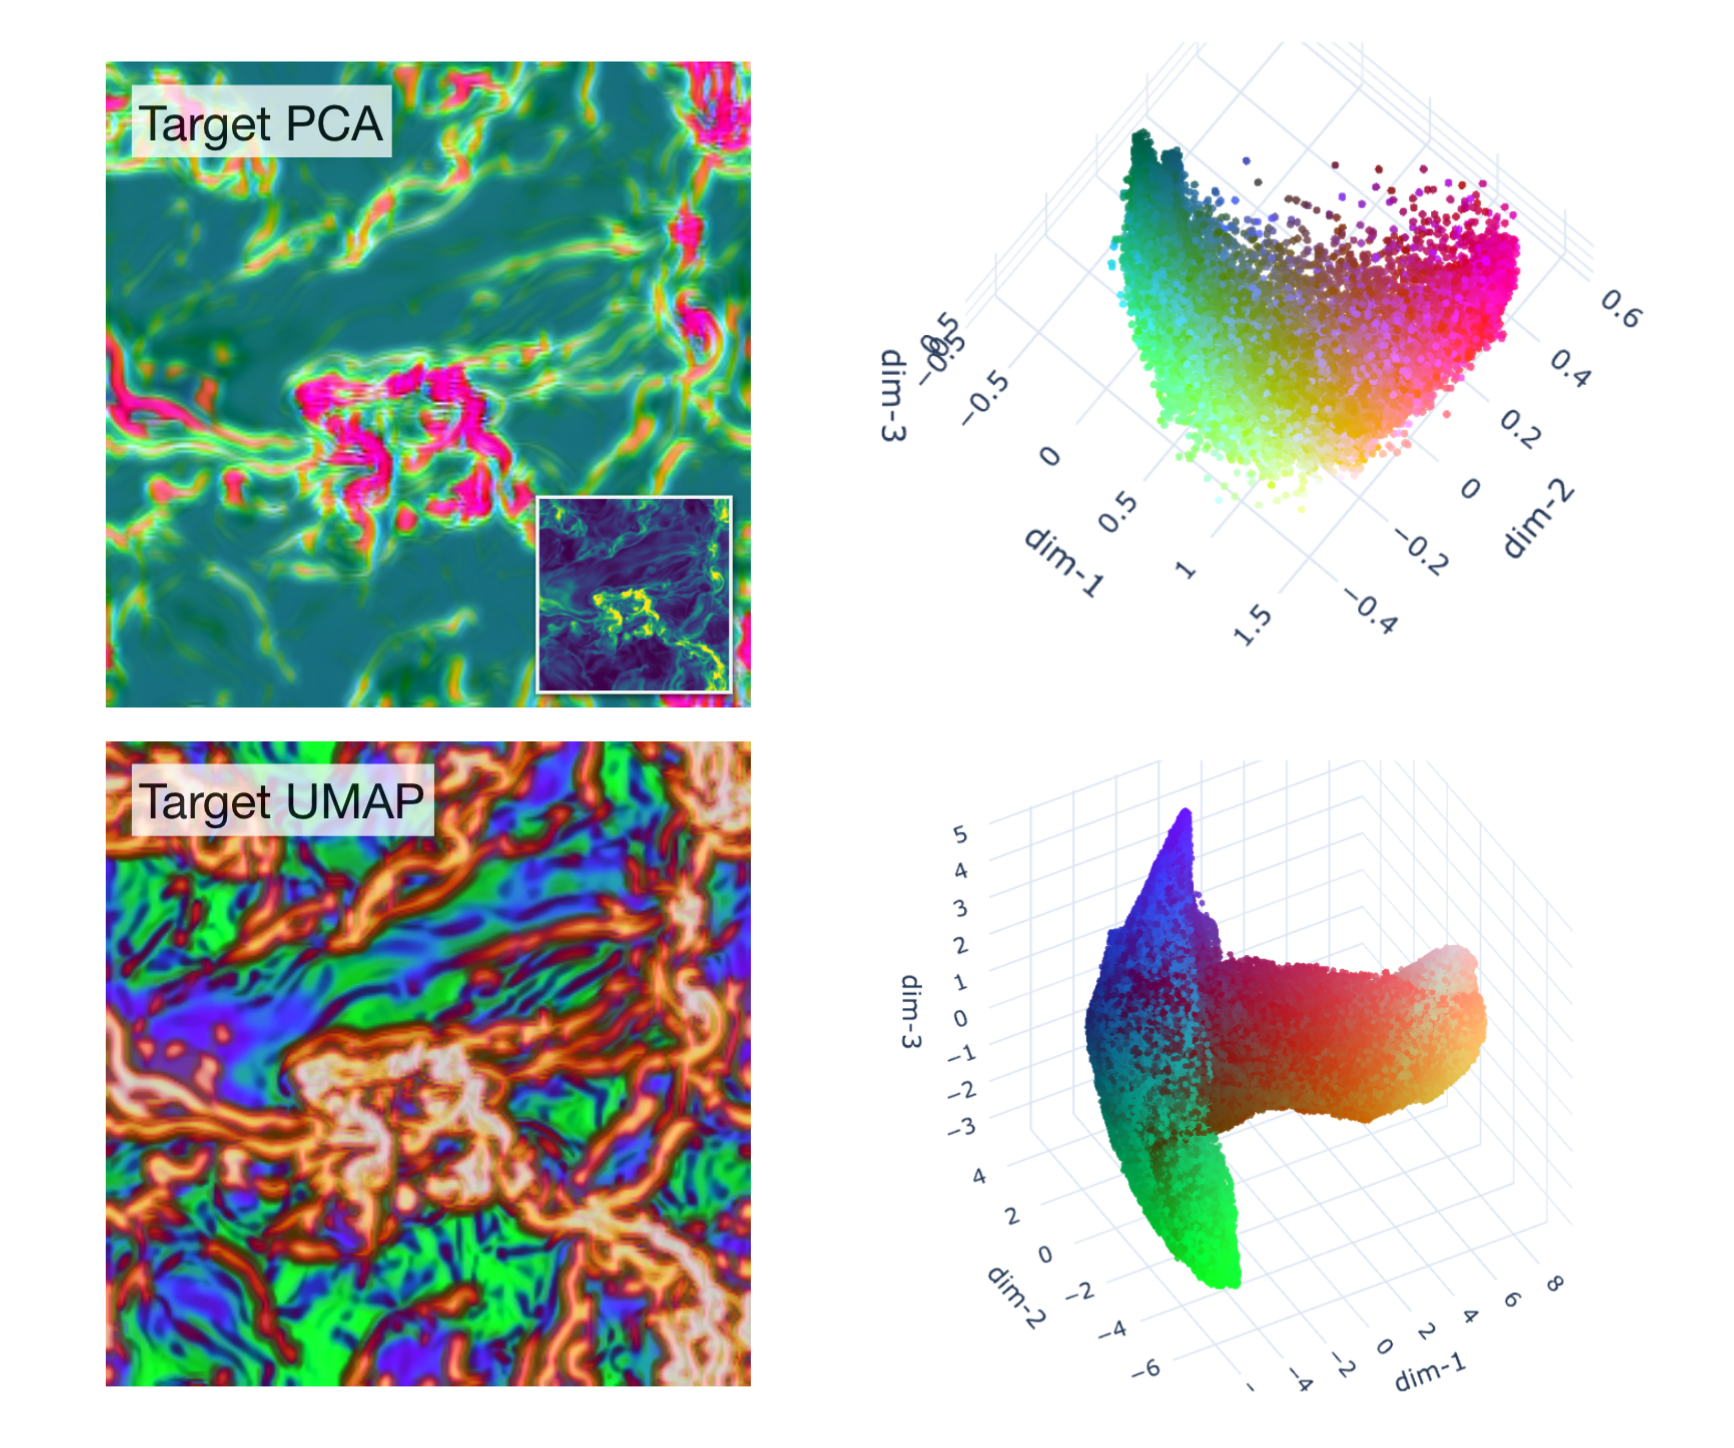
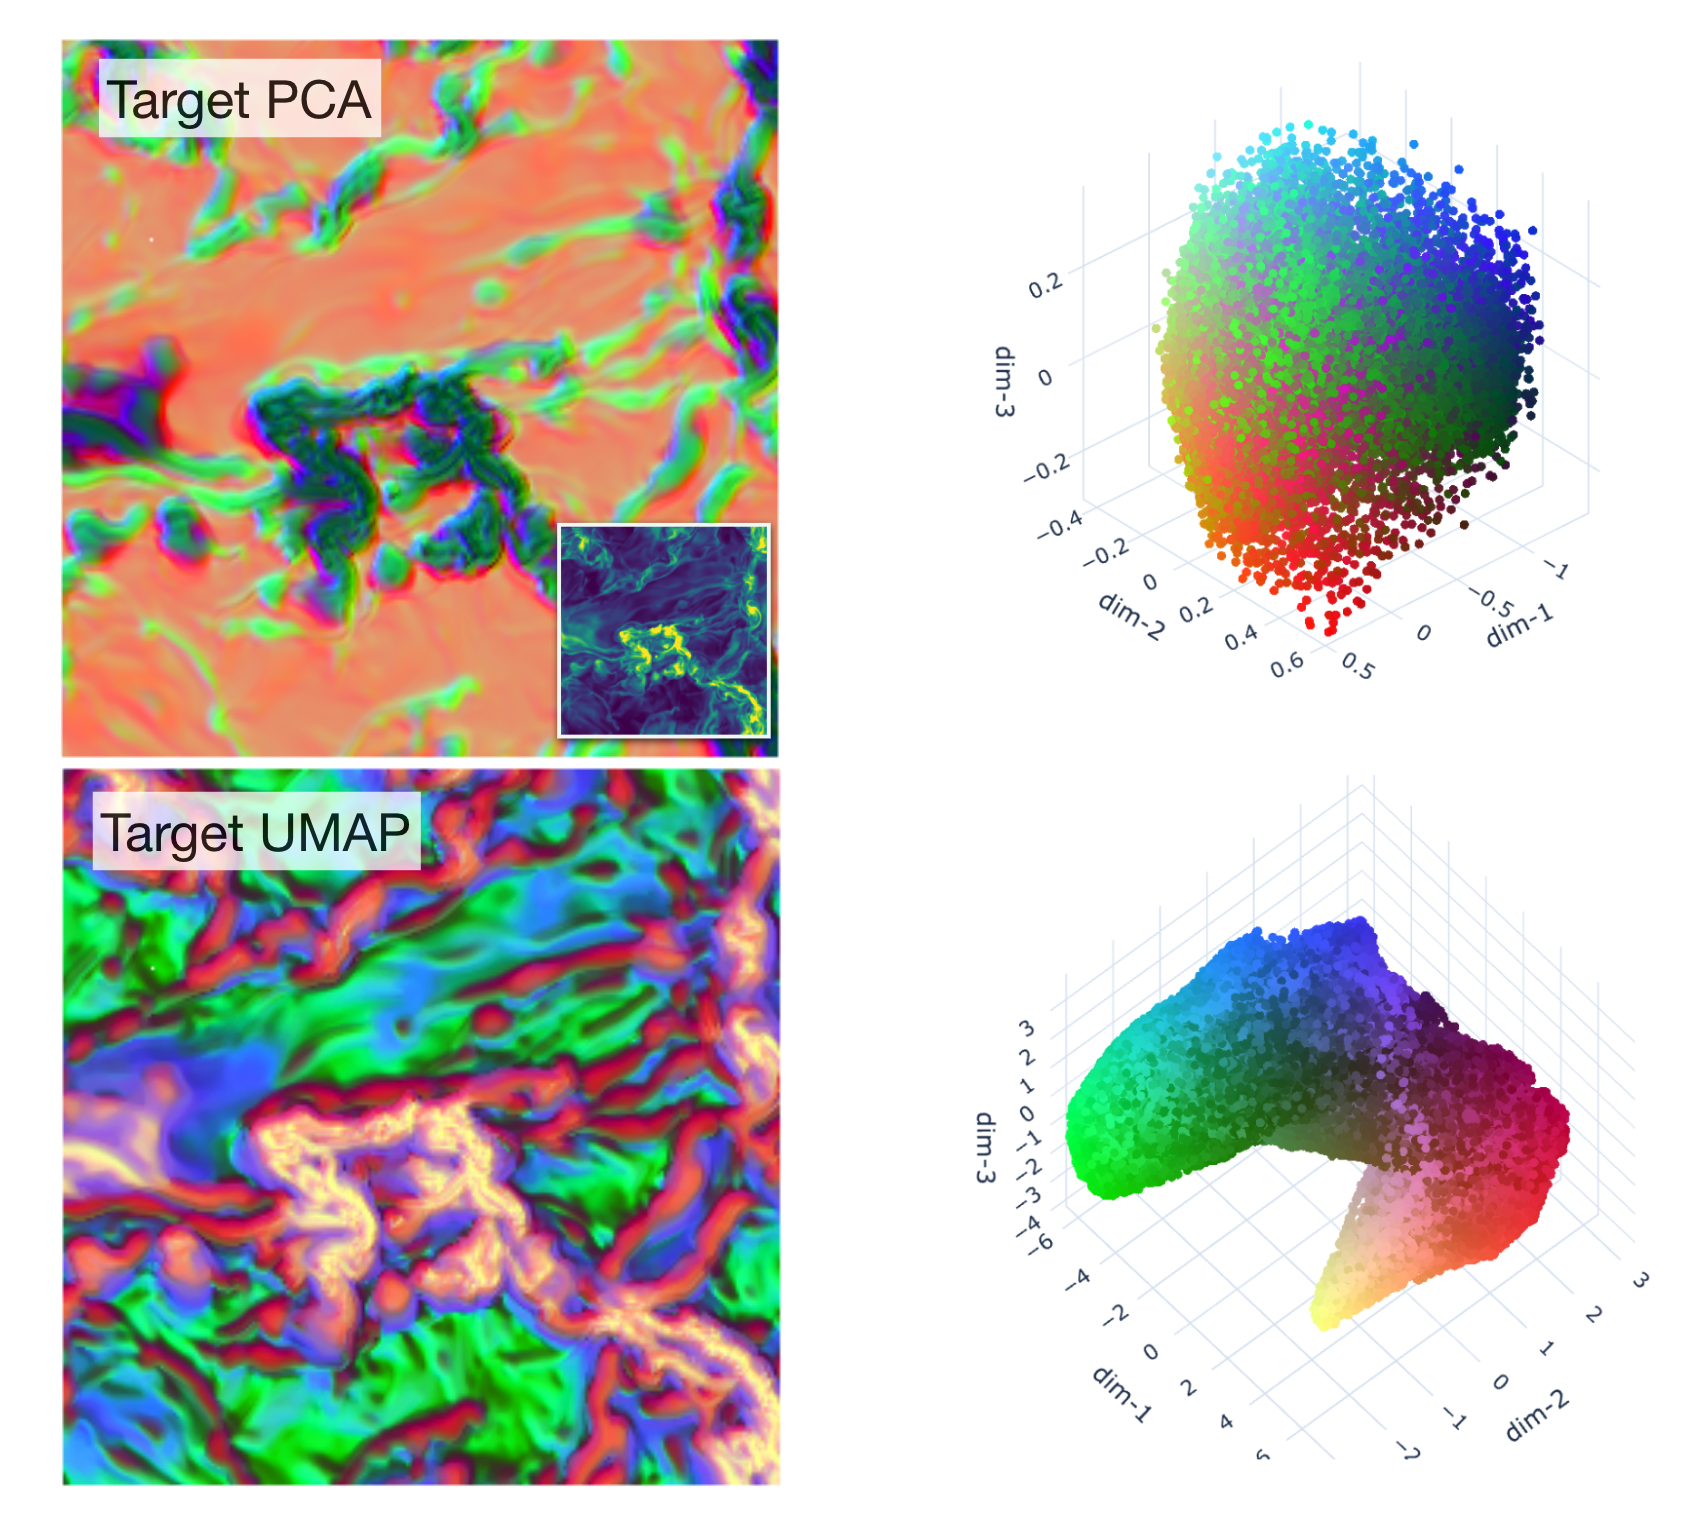
updated figures

diff --git a/README.md b/README.md
@@ -138,6 +138,31 @@ print(f"Dashboard:     outputs/my_run/dashboard.html")
 print(f"Interactive:   {umap_html}")
 ```
 
+### 🔋 Battery-Included Masked-Field Blueprint
+
+For masked fields such as Perseus, start from the cropped blueprint config. It
+uses a precomputed valid-target map, random `400×400` training crops, masked
+inference diagnostics, and dashboard artifact generation. Replace the dummy
+filenames in `configs/examples/perseus_masked_crop_blueprint.yaml` with your
+local field and target-mask files.
+
+```python
+from sajepa import ScaleAwareJEPA
+
+model = ScaleAwareJEPA(config="configs/examples/perseus_masked_crop_blueprint.yaml")
+model.train(config_name="perseus_masked_blueprint", sessions_dir="outputs", dashboard=True)
+interactive = model.open_interactive_umap()
+
+print(f"Dashboard:     {model.session_dir}/dashboard.html")
+print(f"Interactive:   {interactive}")
+```
+
+One-line version:
+
+```bash
+python -c "from sajepa import ScaleAwareJEPA; m=ScaleAwareJEPA(config='configs/examples/perseus_masked_crop_blueprint.yaml'); m.train(config_name='perseus_masked_blueprint', sessions_dir='outputs', dashboard=True); print('dashboard:', m.session_dir + '/dashboard.html'); print('interactive:', m.open_interactive_umap())"
+```
+
 ### ⚙️ Config-driven
 
 > 📘 YAML configs can inherit from `base_pyramid_scaleaware_convnext.yaml` via